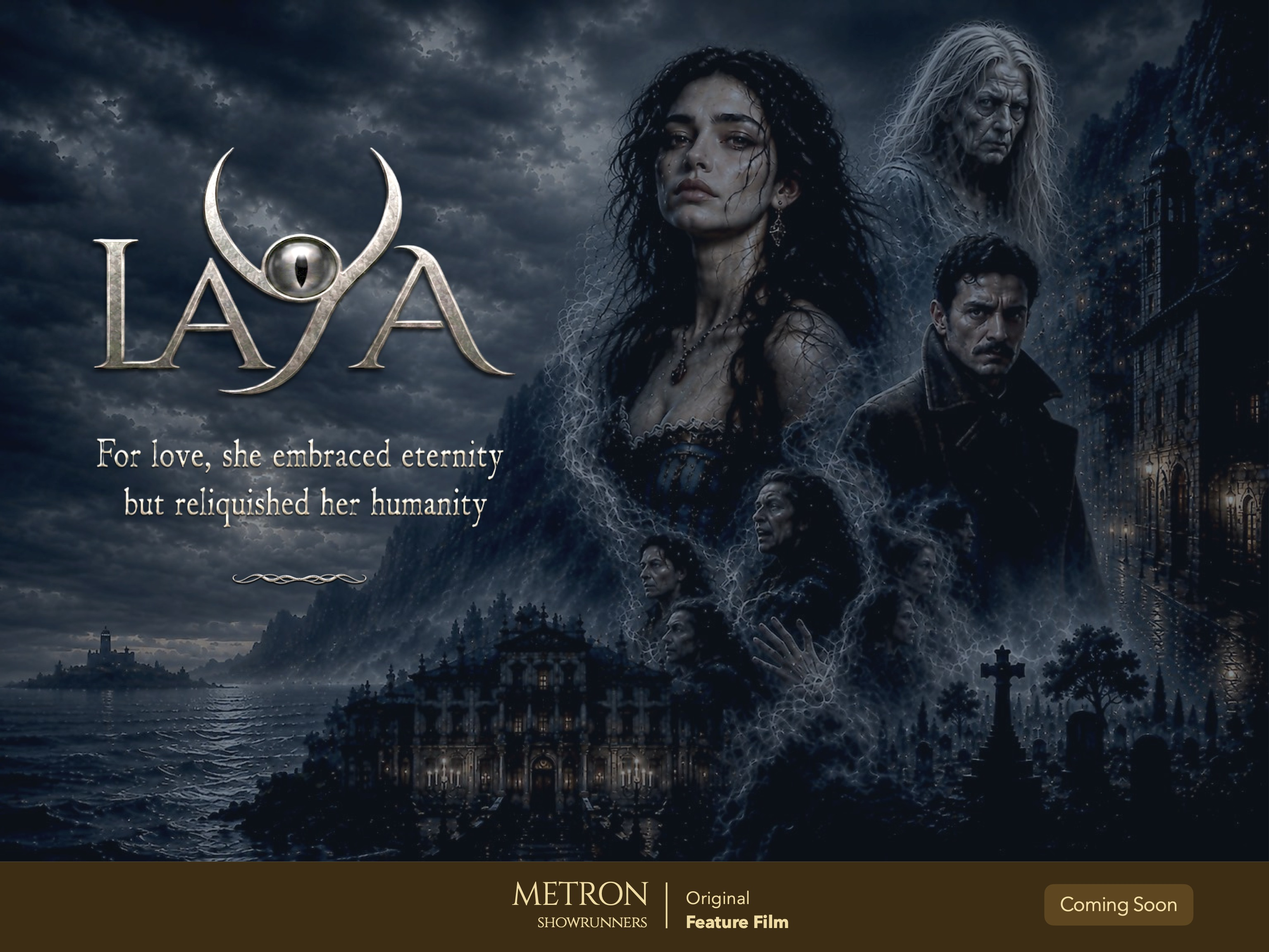
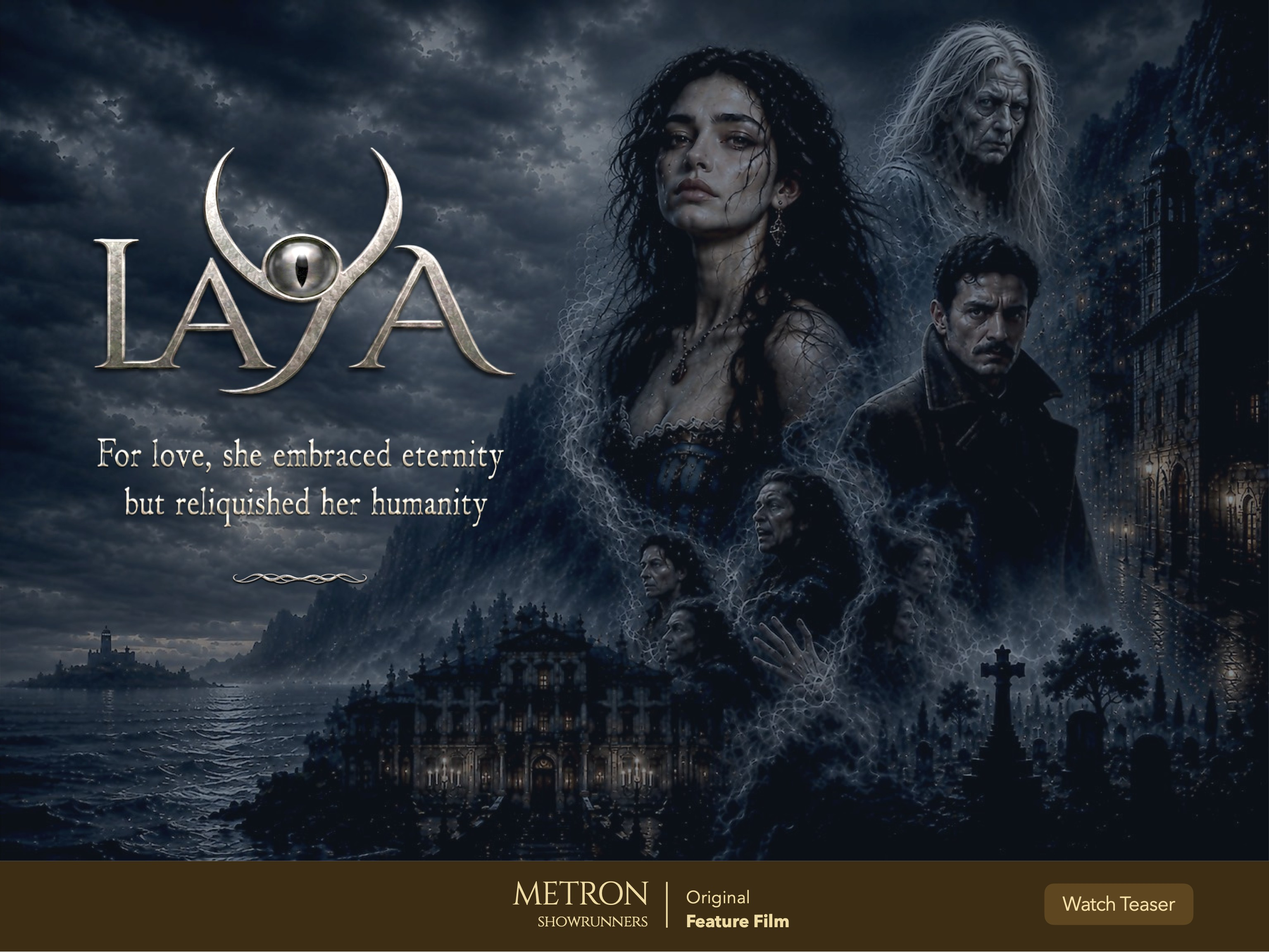
Arte nova da Laya, com a medida refeita
Substitui as duas key arts da Laya. As dimensões mudaram — 3071x2305 em
landscape e 1314x2338 em portrait — então a barra do rodapé foi medida de
novo, como o comentário do arquivo manda.

Landscape fica no padrão: a barra está em 90.46% e o padrão é 90.49%, meio
pixel em 2305. Portrait não: 94.44% contra os 95.02% do padrão, que foram
medidos na arte do Hybris. Sem a regra nova sobra meio ponto percentual de
barra fora da área clicável — e isso já era verdade com a arte anterior, que
media 94.37% e também usava os 95.02%.

O cache-buster vai para v=3 nas duas.

diff --git a/tests/seed.spec.ts b/tests/seed.spec.ts
@@ -52,7 +52,8 @@ const SLIDES_COM_LINK = [
     slide: 1,
     href: 'https://youtu.be/bXL5xmmQPys',
     aria: /Laya teaser/,
-    footerTopPct: 95.02,
+    // A arte da Laya tem a barra em 94.44%, nao nos 95.02% da do Hybris.
+    footerTopPct: 94.44,
   },
   {
     nome: 'Not Even Death',
